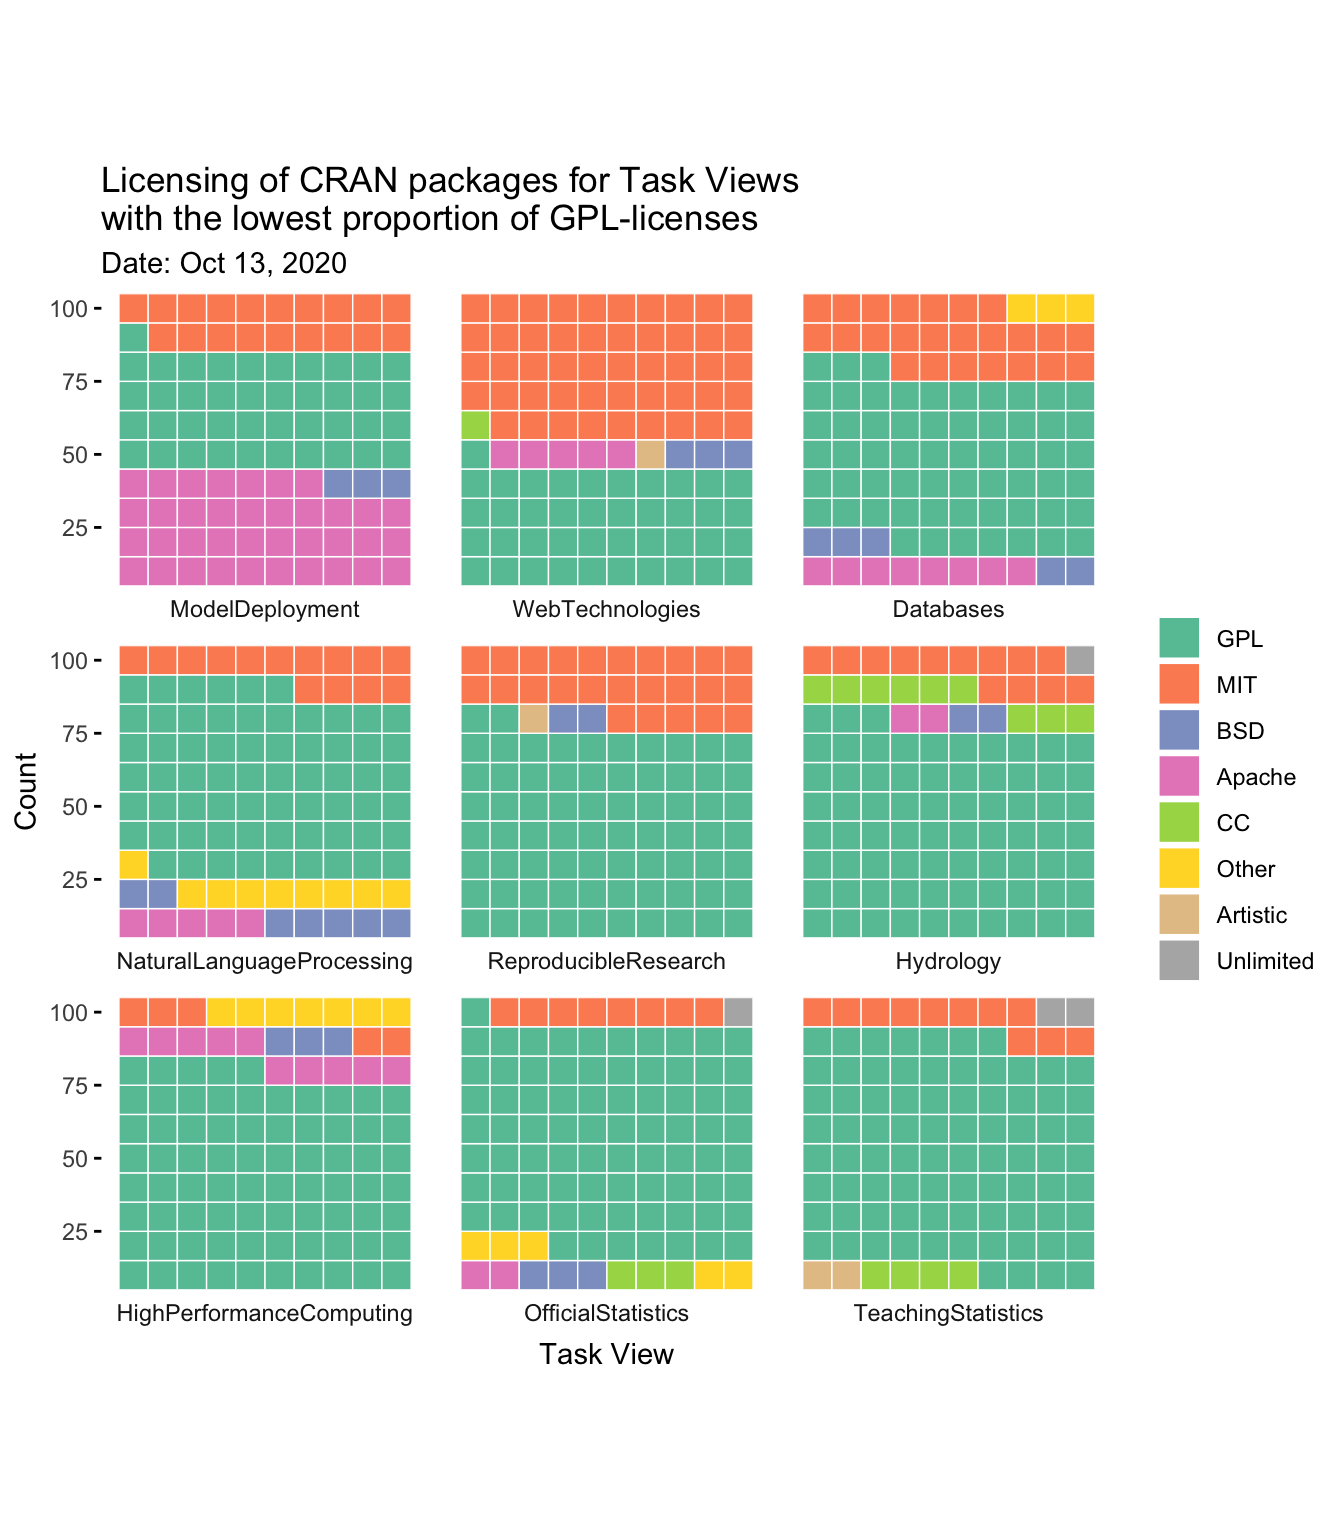
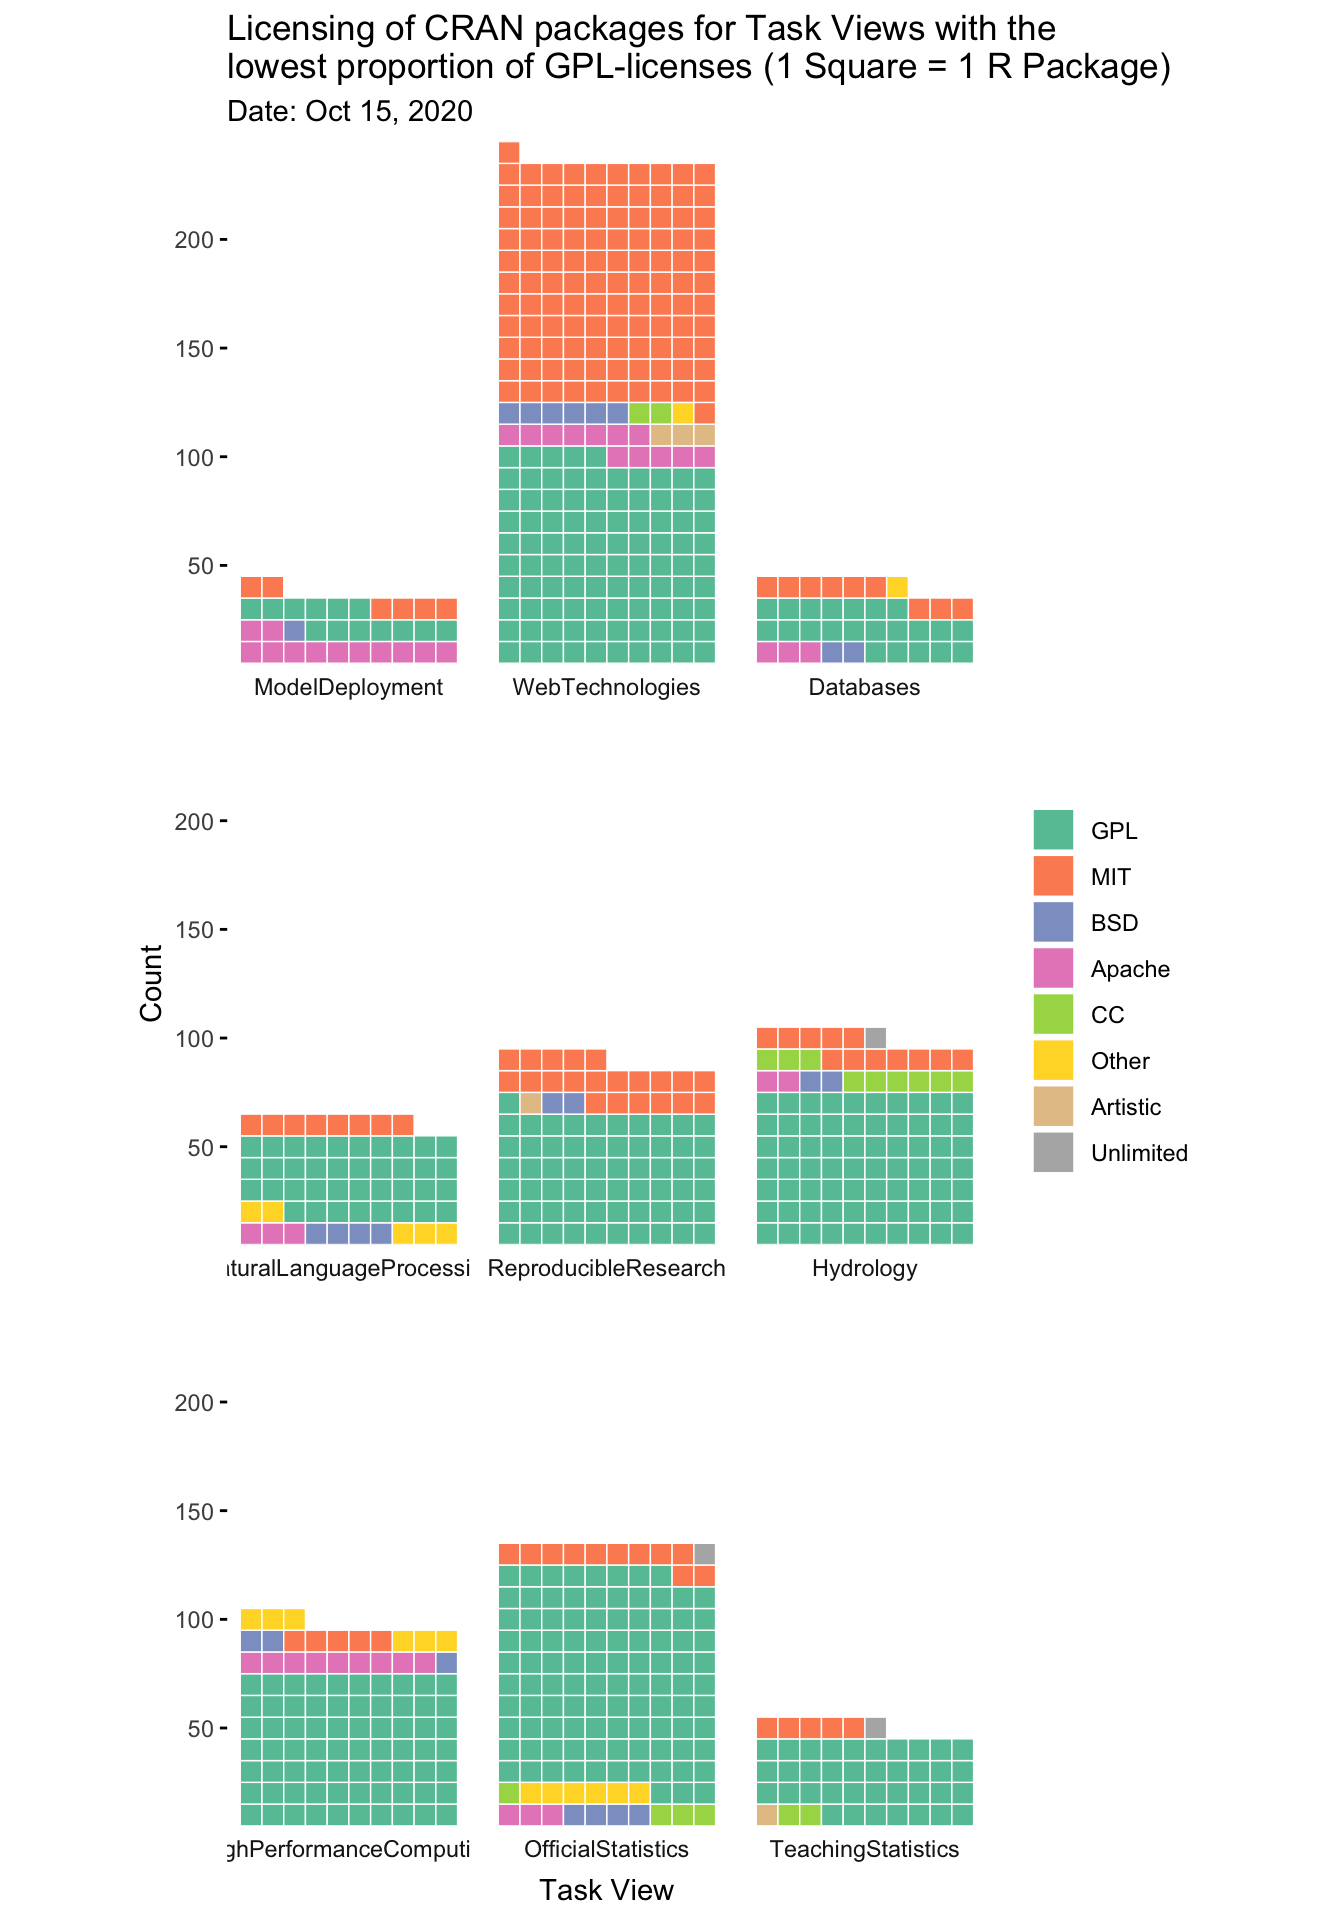
added count faceted waffle chart

diff --git a/content/post/r-packages-license/index.md b/content/post/r-packages-license/index.md
@@ -6,7 +6,7 @@ authors: []
 tags: ["R", "visualization"]
 categories: []
 date: 2020-10-13T12:51:54+02:00
-lastmod: 2020-10-13T12:51:54+02:00
+lastmod: 2020-10-15T11:51:54+02:00
 featured: false
 draft: false
 ---
@@ -150,7 +150,7 @@ ggplot(prepped_data %>% filter(License == "GPL"), aes(x = prop, y = reorder(Task
 
 <img src="r-packages-license-figures/unnamed-chunk-6-1.png" width="672" />
 
-While there are a few Task Views with a good proportion of packages with non-GPL licenses, many are dominated by GPL. Maybe I'll dive more deeply into the different GPL licenses in a future blog post, but for now I'll keep them lumped together. I'll select and plot the nine Task Views with the lowest number of GPL-licensed packages. Because they differ substantially in # of packages, I plot the waffle charts as proportions instead of raw counts:
+While there are a few Task Views with a good proportion of packages with non-GPL licenses, many are dominated by GPL. Maybe I'll dive more deeply into the different GPL licenses in a future blog post, but for now I'll keep them lumped together. I'll select and plot the nine Task Views with the lowest number of GPL-licensed packages. 
 
 
 ```r
@@ -166,7 +166,7 @@ prepped_data %>%
   filter(TaskView %in% selected_taskviews) %>%
   ggplot(aes(fill = License, values = Freq)) +
     geom_waffle(color = "white", size = .25, n_rows = 10, flip = TRUE,
-                make_proportional = TRUE) +
+                make_proportional = FALSE) +
     facet_wrap(~ factor(TaskView, levels = selected_taskviews), nrow = 3, strip.position = "bottom") +
     scale_x_discrete() + 
     scale_y_continuous(labels = function(x) x * 10, # make this multiplyer the same as n_rows
@@ -175,7 +175,7 @@ prepped_data %>%
     scale_fill_brewer(name = NULL, palette = "Set2") +
     coord_equal() +
     labs(
-      title = "Licensing of CRAN packages for Task Views\nwith the lowest proportion of GPL-licenses",
+      title = "Licensing of CRAN packages for Task Views with the\nlowest proportion of GPL-licenses (1 Square = 1 R Package)",
       subtitle = paste("Date:", format(Sys.Date(), "%b %d, %Y")),
       x = "Task View",
       y = "Count"
@@ -185,6 +185,35 @@ prepped_data %>%
 ```
 
 <img src="r-packages-license-figures/unnamed-chunk-7-1.png" width="672" />
+
+Because they differ substantially in # of packages, I'll also plot the waffle charts using proportions instead of raw counts.
+
+```r
+# Faceted waffle chart
+prepped_data %>% 
+  filter(TaskView %in% selected_taskviews) %>%
+  ggplot(aes(fill = License, values = Freq)) +
+    geom_waffle(color = "white", size = .25, n_rows = 10, flip = TRUE,
+                make_proportional = TRUE) +
+    facet_wrap(~ factor(TaskView, levels = selected_taskviews), nrow = 3, strip.position = "bottom") +
+    scale_x_discrete() + 
+    scale_y_continuous(labels = function(x) x * 10, # make this multiplyer the same as n_rows
+                       expand = c(0,0)) +
+    # ggthemes::scale_fill_tableau(name=NULL) +
+    scale_fill_brewer(name = NULL, palette = "Set2") +
+    coord_equal() +
+    labs(
+      title = "Licensing of CRAN packages for Task Views with the\nlowest proportion of GPL-licenses (1 Square = 1 Percent)",
+      subtitle = paste("Date:", format(Sys.Date(), "%b %d, %Y")),
+      x = "Task View",
+      y = ""
+    ) +
+    theme_minimal() +
+    theme(panel.grid = element_blank(), axis.ticks.y = element_blank())
+```
+
+<img src="r-package-license-figures/unnamed-chunk-8-1.png" width="672" />
+
 
 Many R packages use a GPL license. These guarantee end users the freedom to run, study, share, and modify software. And they ensure the derivative work is distributed under the same or equivalence license terms, "paying it forward" so the whole community gets a chance to benefit from the new software. For companies that want to integrate code of R packages into their commercial products, this poses a potential problem. The other day I was reading [this blog post](https://r-posts.com/how-gpl-makes-me-leave-r-for-python/) by Hovav Dror. Simply put, the author, an employee for a private company, was leaving R for Python because many R packages use a strong GPL license (see [wikipedia](https://en.wikipedia.org/wiki/GNU_General_Public_License) and the [GPL-3 license](https://www.gnu.org/licenses/gpl-3.0.html)). He writes:
 
